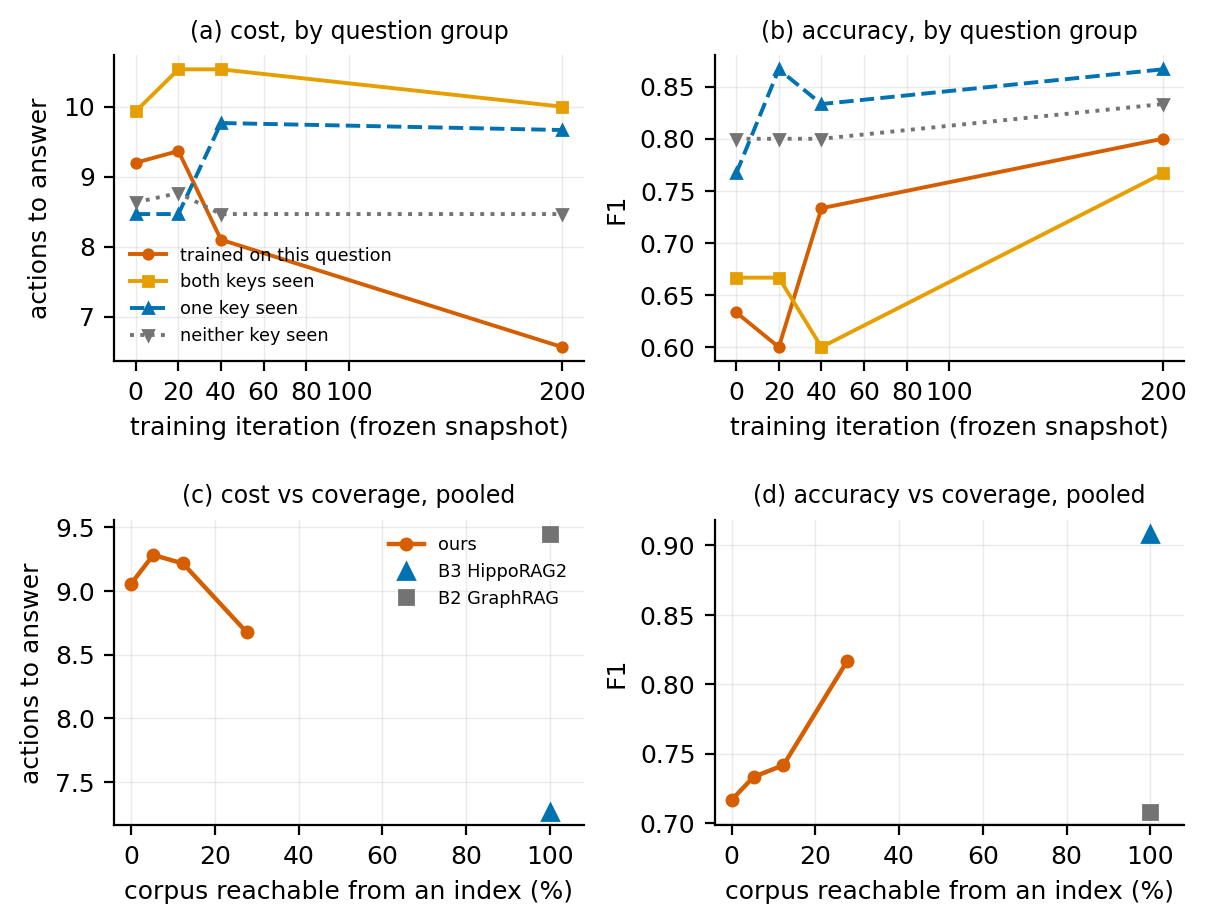
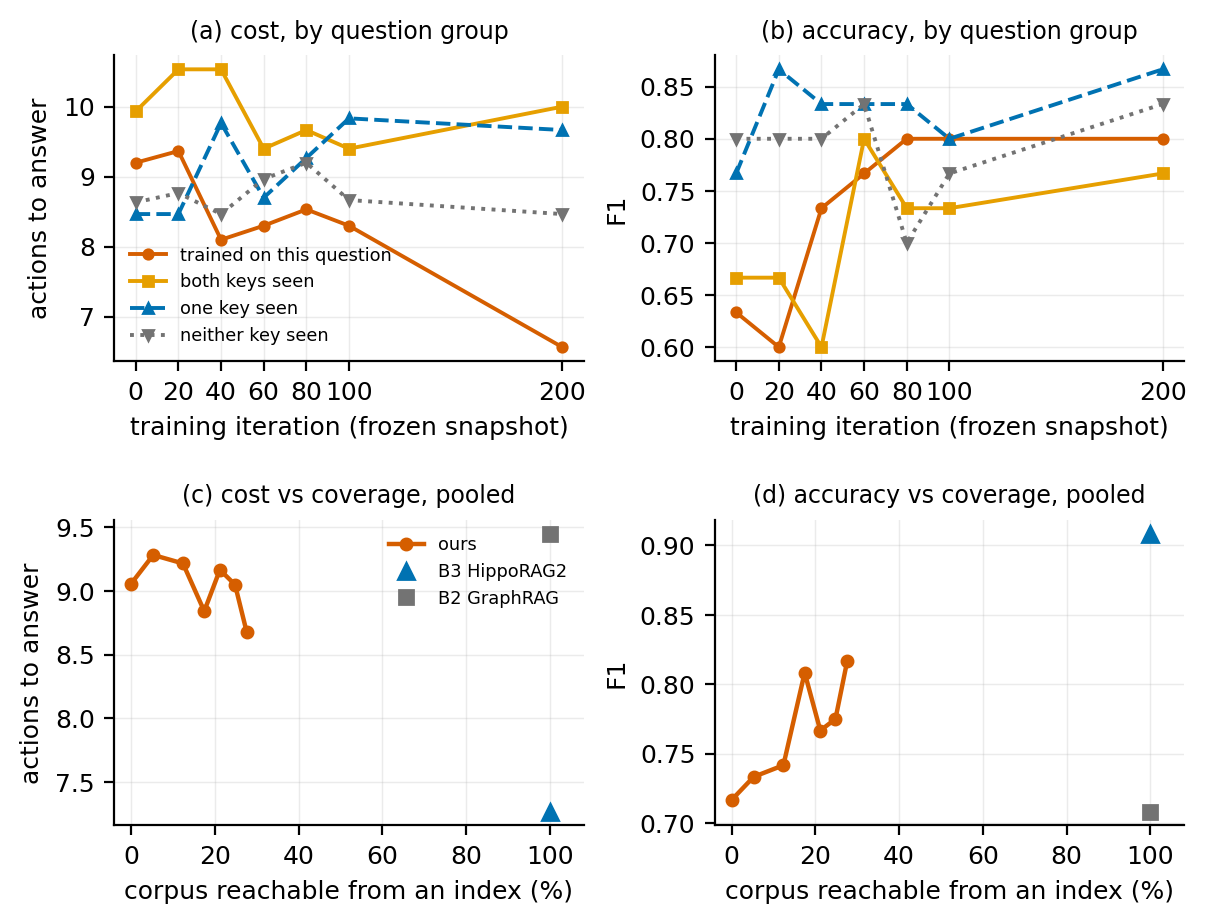
report that the step saving takes two curation passes, not one
Epoch 1 moves accuracy (0.633 to 0.800) and barely moves cost; epoch 2 moves
cost (8.30 to 6.57) and not accuracy. It is not index completion -- degree
is flat -- but 45 further indexes aimed at the same questions.

diff --git a/paper/main.tex b/paper/main.tex
@@ -693,6 +693,21 @@ question --- the saving is gone ($\rho = 0.935$, CI spanning $1$), and it
 does not return. Coverage of the keys is therefore \emph{not} what buys the
 saving; having answered that exact question before is.
 
+\textbf{Two epochs, two different gains.} Fig.~\ref{fig:learning}a--b
+separates them. Across epoch~1, where each question is seen once, the
+trained group's accuracy moves almost all the way it is going to move
+($0.633 \to 0.800$) while cost barely does ($9.20 \to 8.30$ actions). Across
+epoch~2, where the same hundred questions are curated a second time, cost
+falls the rest of the way ($8.30 \to 6.57$) and accuracy does not move at
+all. The second pass does not change what the store can answer; it changes
+how quickly. Nor does it work by completing indexes left half-built ---
+mean out-degree is flat across the epoch ($6.79$ to $6.67$) and the empty
+count barely moves ($45$ to $43$) --- it works by adding $45$ more indexes
+aimed at the same questions. The saving we report therefore reflects two
+curation passes over a question, not one, which is a real qualification on
+the headline number and a direct argument for the online setting: a store
+serving repeat traffic gets more passes over the keys that matter, for free.
+
 \textbf{The transfer radius depends on which endpoint you ask about.}
 Splitting each group by whether the flat store exhausted its budget
 separates two effects that the pooled $\rho$ hides. Where B1 runs out of
